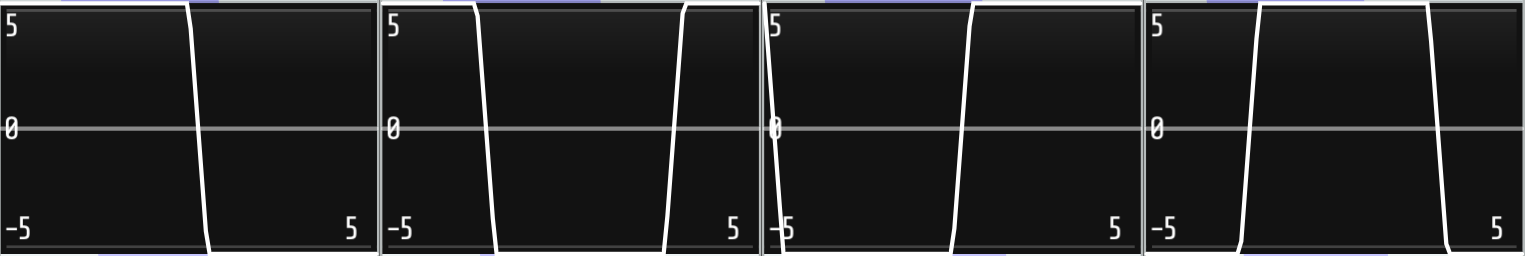
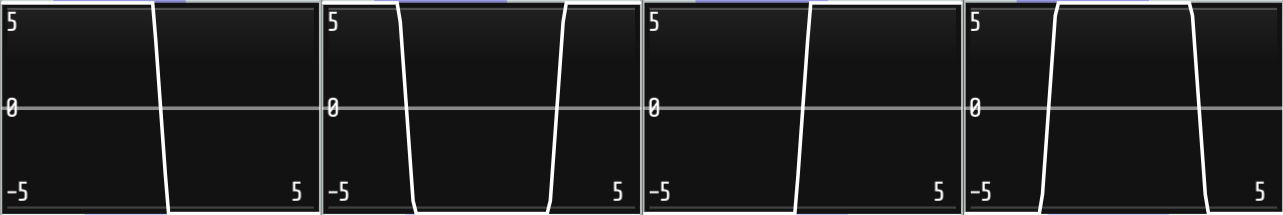
Add drift-together option, etc.
Also tweaked the square wave generation and image in the docs.
Updated doc to note changes.
Updated the release notes.

Changed region(s): [[0.0, 0.0, 1.0, 1.0], [0.2182, 0.8372, 0.2806, 0.9488], [0.0, 0.8372, 0.0312, 0.9488]]

diff --git a/src/Drifter.cpp b/src/Drifter.cpp
@@ -52,7 +52,6 @@ struct Drifter : Module {
     OFFSET_LIGHT,
     RESET_LIGHT,
     DRIFT_LIGHT,
-    ENDPOINTS_LIGHT,
     LIGHTS_LEN
   };
 
@@ -71,7 +70,7 @@ struct Drifter : Module {
     configButton(RESET_PARAM,
                  "Press to reset curve to initial shape (see menu)");
     configButton(DRIFT_PARAM, "Press to drift once");
-    // TODO: Shouldn't Unipolar reset to all zeroes?
+
     configSwitch(OFFSET_PARAM, 0, 1, 0, "Offset",
                  {"Bipolar (-5V - +5V)", "Unipolar (0V - 10V)"});
     configSwitch(LINETYPE_PARAM, 0, 2, 1, "Line Type",
@@ -79,8 +78,9 @@ struct Drifter : Module {
     // This has distinct values.
     getParamQuantity(LINETYPE_PARAM)->snapEnabled = true;
 
-    configSwitch(ENDPOINTS_PARAM, 0, 1, 0, "Endpoints are",
-                 {"Fixed", "Drifting"});
+    configSwitch(ENDPOINTS_PARAM, 0, 2, 0, "Endpoints are",
+                 {"Fixed", "Drifting independently", "Drifting together"});
+    getParamQuantity(ENDPOINTS_PARAM)->snapEnabled = true;
 
     configInput(RESET_INPUT,
                 "Line is reset to initial shape when a trigger enters");
@@ -165,7 +165,8 @@ struct Drifter : Module {
 
   void reset_points(bool startup) {
     static std::function<float(float, float, bool)> reset_functions[] = {
-      [](float x, float w, bool uni) { return 0.0 + (uni ? 0.0f : 5.0f);},  // Zero
+      [](float x, float w, bool uni)
+         { return 0.0 + (uni ? 0.0f : 5.0f);},  // Zeros.
       [](float x, float w, bool uni)
          { return 5.0f + 5.0f * sin(3.1415927f * (x + w) / 5.0f);},  // Sine.
       [](float x, float w, bool uni)
@@ -198,7 +199,7 @@ struct Drifter : Module {
         },
       [](float x, float w, bool uni)
         { float xw = x + w;    // Square.
-          if (xw <= 5.0f) {
+          if (xw < 5.0f) {  // Because w is 5.0 for C, <= 5.0 leads to suprious initial peak.
             return 10.0f;
           } else if (xw <= 10.f) {
             return 0.0f;
@@ -405,7 +406,7 @@ struct Drifter : Module {
     // are definitely set.
     if (!initialized) {
       reset_points(true);
-      need_to_update_graph = true;  // Yes, all y's will be zero.
+      need_to_update_graph = true;
       initialized = true;
     }
 
@@ -432,6 +433,7 @@ struct Drifter : Module {
     }
 
     bool endpoints_drift = params[ENDPOINTS_PARAM].getValue() > 0;
+    bool endpoints_drift_together = params[ENDPOINTS_PARAM].getValue() == 2;
     // Test the Reset button and signal.
     bool reset_was_low = !resetTrigger.isHigh();
     resetTrigger.process(rescale(
@@ -450,7 +452,7 @@ struct Drifter : Module {
     if (reset) {
       reset_points(false);
       // Now that new function has been computed, update the display curve.
-      need_to_update_graph = true;  // Yes, all y's will be zero.
+      need_to_update_graph = true;
     }
 
     // Determine if we have a DRIFT event from button or input.
@@ -510,14 +512,18 @@ struct Drifter : Module {
         point result = uniform_region_value(total_drift, 0.0f, start_point, min, max);
         start_point.y = result.y;
 
-        min = {10.0f, 0.0f};
-        max = {10.0f, 10.0f};
-        result = uniform_region_value(total_drift, 0.0f, end_point, min, max);
-        end_point.y = result.y;
+        if (!endpoints_drift_together) {
+          min = {10.0f, 0.0f};
+          max = {10.0f, 10.0f};
+          result = uniform_region_value(total_drift, 0.0f, end_point, min, max);
+          end_point.y = result.y;
+        } else {
+          end_point.y = start_point.y;
+        }
       }
 
       // Now that new function has been computed, update the display curve.
-      need_to_update_graph = true;  // Yes, all y's will be zero.
+      need_to_update_graph = true;
     }
 
     if (inputs[DOMAIN_INPUT].isConnected() &&
@@ -540,7 +546,6 @@ struct Drifter : Module {
     lights[OFFSET_LIGHT].setBrightness(offset_unipolar);
     lights[RESET_LIGHT].setBrightness(
         reset || reset_light_countdown > 0 ? 1.0f : 0.0f);
-    lights[ENDPOINTS_LIGHT].setBrightness(endpoints_drift);
     lights[DRIFT_LIGHT].setBrightness(
         drifting_light_countdown > 0 ? 1.0f : 0.0f);
   }
@@ -699,10 +704,11 @@ struct DrifterWidget : ModuleWidget {
                                              module, Drifter::OFFSET_PARAM,
                                              Drifter::OFFSET_LIGHT));
     // ENDS
-    addParam(createLightParamCentered<VCVLightLatch<
-             MediumSimpleLight<WhiteLight>>>(mm2px(Vec(37.224, 64.0)),
-                                             module, Drifter::ENDPOINTS_PARAM,
-                                             Drifter::ENDPOINTS_LIGHT));
+    RoundBlackSnapKnob* ends_knob = createParamCentered<RoundBlackSnapKnob>(
+         mm2px(Vec(37.224, 64.0)), module, Drifter::ENDPOINTS_PARAM);
+    ends_knob->minAngle = -0.28f * M_PI;
+    ends_knob->maxAngle = 0.28f * M_PI;
+    addParam(ends_knob);
 
     // Line Count.
     addParam(createParamCentered<RoundBlackKnob>(

diff --git a/README.md b/README.md
@@ -830,8 +830,12 @@ move in the 2-dimensional space in one DRIFT event. Setting it to zero
 locks the points in place. Higher values allow larger changes each
 time. Hint: start small.
 #### ENDS Button
-Selects one of two options: Left and right end points stay locked
-at value zero OR end points drift up and down when DRIFT events occur.
+Selects one of three options:
+* Left and right end points stay locked
+at their current value OR end points drift up and down when DRIFT events occur.
+* Left and right end points drift independently.
+* The right-side end point stays at the same value as the left one.
+
 #### DRIFT Input and Button
 A trigger to the Input or a Button press will
 cause all of the points defining the output curve to move once, within the
@@ -873,6 +877,9 @@ Variants A, B, C, and D
 ##### Falling Saw
 ![Falling Saw](images/Drifter-FSaw.png)
 ##### Square
+Note that the transients in these "squares" aren't perfectly vertical,
+because there is always initially some horizontal distance between the
+points that define the shape.
 ![Square](images/Drifter-Square.png)
 
 ### Bypass Behavior

diff --git a/RELEASE NOTES.md b/RELEASE NOTES.md
@@ -1,5 +1,12 @@
 # Release Notes
 
+### 2.0.9
+#### ???
+* Additional preset scripts for BASICally.
+* Drifter can now RESET to shapes other than a straight line at zero.
+* Drifter can drift the left and right end points in sync. This prevents
+sudden changes/transients when driving IN with a saw wave.
+
 ### 2.0.8
 #### February 12, 2023
 * Bug fixes to compilation.
